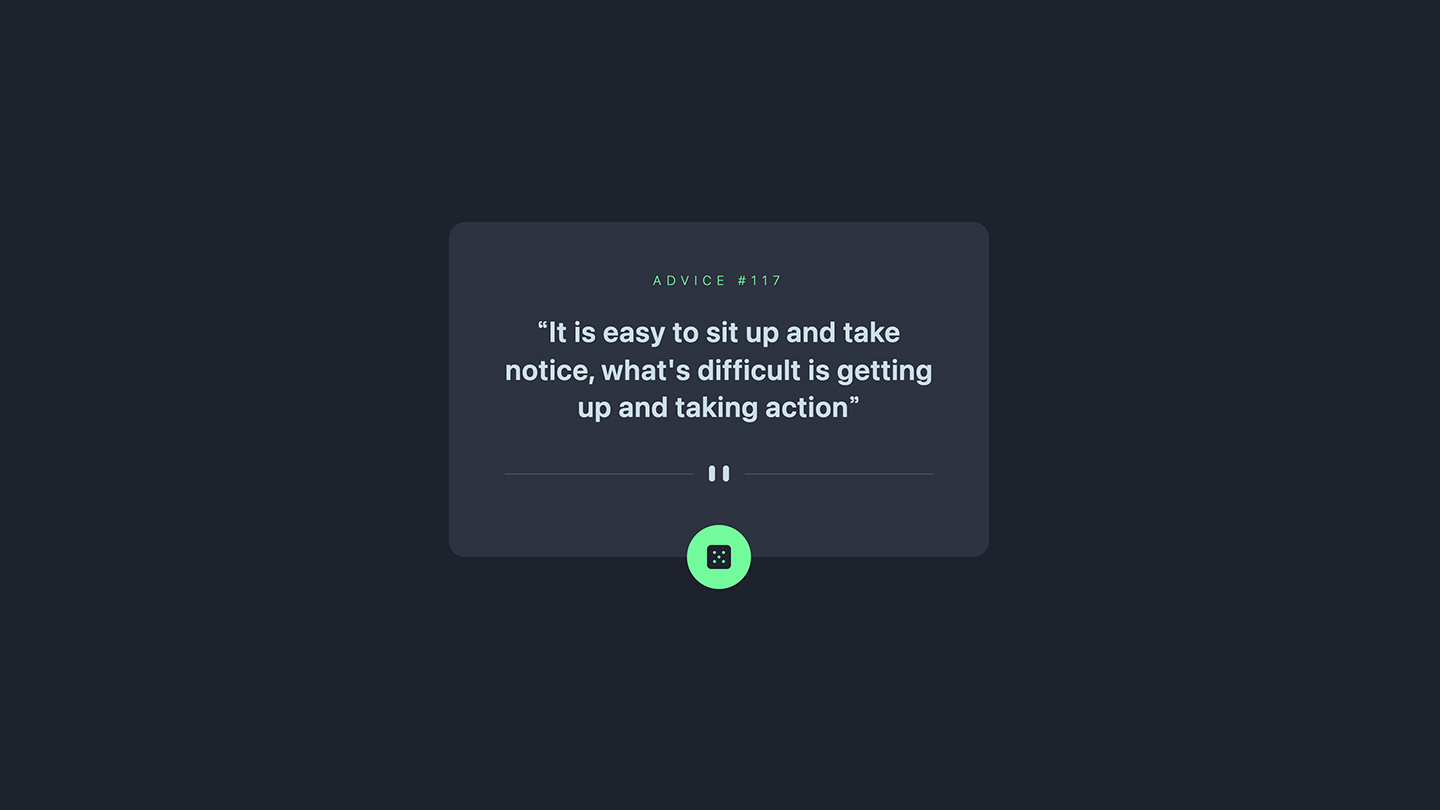
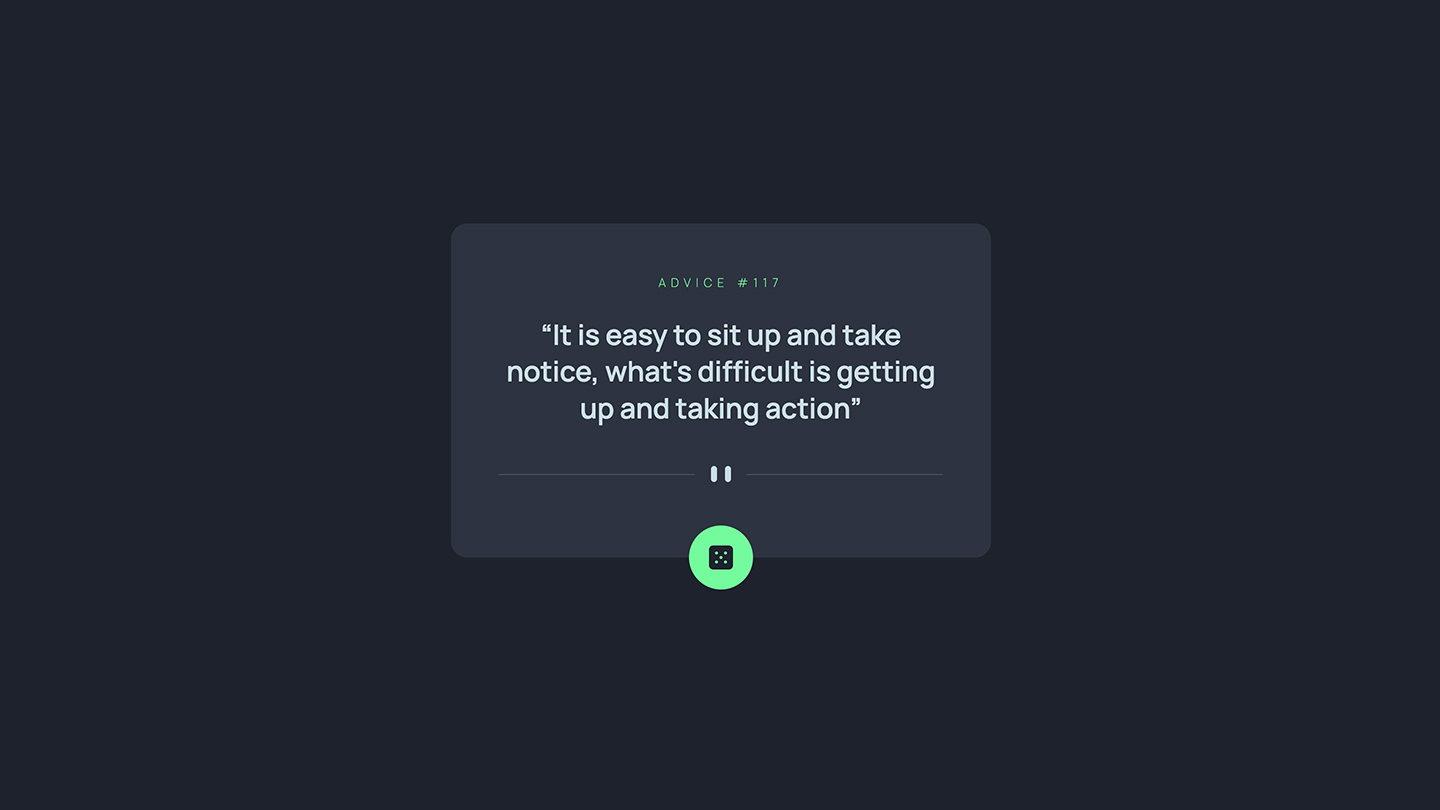
font update

Changed region(s): [[0.3438, 0.4012, 0.6562, 0.5247], [0.4688, 0.6481, 0.5312, 0.7099], [0.4375, 0.3395, 0.5312, 0.3704]]

diff --git a/style.css b/style.css
@@ -22,6 +22,7 @@ img {
   vertical-align: middle;
 }
 /* General STYLE */
+
 @font-face {
   font-family: 'Manrope';
   src: url('./fonts/Manrope-ExtraLight.woff2') format('woff2'),
@@ -60,7 +61,7 @@ img {
     --color4: hsl(217, 19%, 24%);
     --color5: hsl(218, 23%, 16%);
 
-    --ffparagraph: "Epilogue", system-ui, sans-serif;
+    --ffparagraph: "Manrope", system-ui, sans-serif;
     --ffblockquote: "Space grotesk", system-ui, sans-serif;
 
     --fsparagraph: 1rem;
@@ -81,7 +82,7 @@ h1, h2, h3, ul {
 }
 main {
   max-width:21.438rem;
-  padding:3.15rem 3.5rem 4.7rem 3.5rem;
+  padding:3.15rem 3rem 4.7rem 3rem;
   margin:auto;
   background: var(--color4);
   text-align: center;
@@ -90,7 +91,7 @@ main {
   align-self:center;
 }
 h1{
-  font-size:0.8rem;
+  font-size:0.75rem;
   color:var(--color2);
   font-weight:200;
   letter-spacing:0.33rem;
@@ -98,22 +99,21 @@ h1{
 }
 blockquote p::before {
   content: open-quote;
-  font-family: var(--ffblockquote) !important;
-  font-weight:300;
+  /* font-family: var(--ffblockquote) !important; */
+  /* font-weight:300; */
 }
   blockquote p::after{
   content:close-quote;
-  font-family: var(--ffblockquote) !important;
-  font-weight:300;
+  /* font-family: var(--ffblockquote) !important; */
+  /* font-weight:300; */
 }
   
 p {
-  font-size:1.78rem;
+  font-size:1.75rem;
   font-family: var(--ffparagraph);
   line-height:2.3rem;
   color:var(--color1);
-  font-weight:600;
-  letter-spacing:0.03rem;
+  font-weight:800;
   padding:1.6rem 0 3.5rem 0;
   background: url(./images/pattern-divider-mobile.svg) no-repeat bottom center;
 }

diff --git a/main.js b/main.js
@@ -9,7 +9,7 @@ button.addEventListener('click', ()=> {
 
     fetchData(); 
 })
-async function fetchData(pokemonName){
+async function fetchData(){
     try{
         const response = await fetch(`https://api.adviceslip.com/advice`)
 
@@ -18,7 +18,7 @@ async function fetchData(pokemonName){
         }
         const data = await response.json();
         adviceHolder.innerText = data.slip.advice;
-        adviceId.innerText = `${data.slip.id}`;
+        adviceId.innerText = data.slip.id;
     }
     catch(error){
         console.log(error);

diff --git a/index.html b/index.html
@@ -14,7 +14,7 @@
 
   <h1>Advice #<span id="advice-id">117</span></h1>
   <blockquote>
-    <p id="advice-text">It is easy to sit up and take notice, what's difficult is getting up and taking action</p>
+    <p id="advice-text">It is easy to sit up and take notice, what's difficult is getting up and taking action.</p>
   </blockquote>
   <button id="button" aria-label="Generate an advice"></button>
 </main> 
